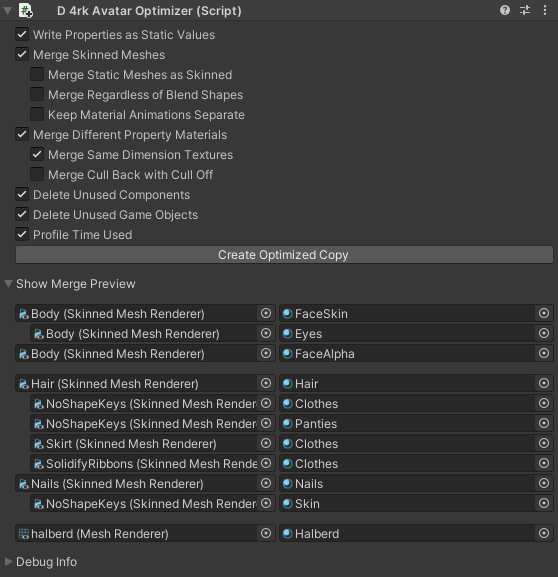
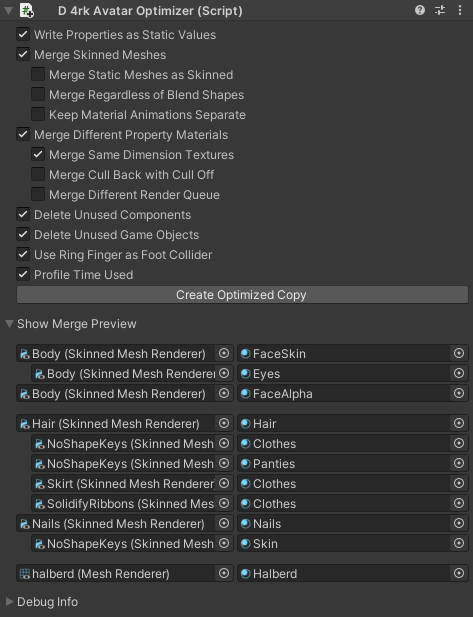
Update readme with new options
add section about shader locking in
mention deletion of assets of the previous optimized copy
removed bullet point of merge limitation that no longer applies

diff --git a/README.md b/README.md
@@ -29,6 +29,8 @@ Merges materials with the same shader where properties can have different values
 If they do have different values the values will get written to a constant buffer.
 Material IDs get written to uv.w and used to access the correct value from that cbuffer.
 
+If your shader has a "lock in" or "bake" feature, make sure to not use it with this optimizer. Locked in shaders will have different actual shaders for each material, so they can't be combined. "Write Properties as Static Values" will take over the job of locking in the shaders.
+
 Can't merge materials if:
 * Shader is surface shader or has tessellation
 * A property that differs is used in shader lab code (eg `ZWrite [_ZWrite]`)
@@ -37,21 +39,24 @@ Merges materials if they use different textures if their width, height & compres
 Creates a Texture2DArray from the original textures.
 
 Can't merge materials if:
-* Shader has *any* function that takes Texture2D or sampler2D as input  
-  eg `float3 triplanar(float3 pos, float3 normal, sampler2D sampl, float4 st)`
 * Texture property to merge gets used in custom macro. **This is not detected by the optimizer!**
 ## Merge Cull Back with Cull Off
 Merges materials even if their culling properties differ. Forces culling to off.
+## Merge Different Render Queue
+Merges materials even if their render queue differs.
 ## Delete Unused Components
 Deletes all components that are turned off and never get enabled by animations. It also deletes phys bone colliders that are not referenced by any used phys bone components.
 ## Delete Unused Game Objects
 Deletes all game objects that have no used components and are not referenced in any other used components. This also applies to bones referenced in skinned meshes as long as the bones aren't moved by animations, eye look settings or phys bone components. It re parents the children of the deleted game objects to their respective parents as well as transfers its weight to the parent.
+## Use Ring Finger as Foot Collider
+Moves the ring finger collider to match the foot contact. This enables you to touch other players phys bones with your feet.
 ## Profile Time Used
 Outputs how much time the different sections in the code took to execute.
 ## Create Optimized Copy
 Creates a copy of the avatar and performs the selected optimizations on the copy.
 Disables the original avatar so only the copy is active.  
-None of the original assets will be changed so even if the optimizer fails your avatar is still safe!
+None of the original assets will be changed so even if the optimizer fails your avatar is still safe!  
+It also deletes the assets from the previous optimized copy. You should never change the optimized copy, it is only intended to be uploaded and then get deleted again.
 
 In addition to the selected optimizations there are some optimizations that are always performed:
 * Remove unused shape keys with zero weight. Unused here means not a viseme nor referenced in any animation in the fx layer.
